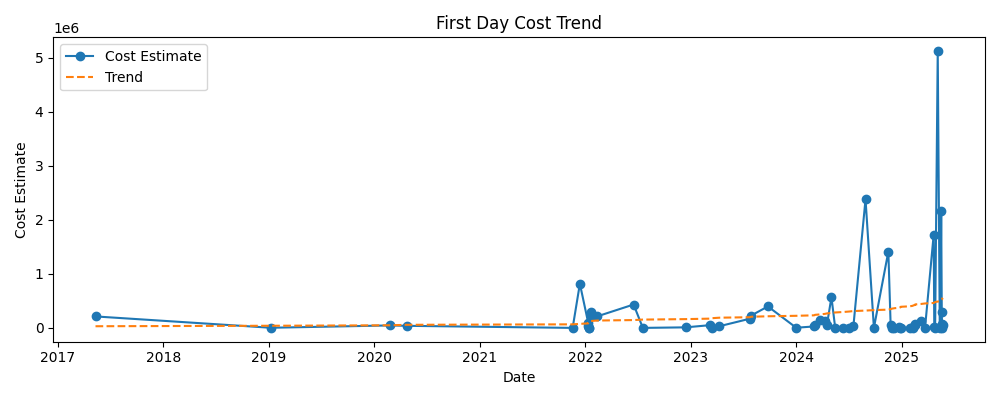
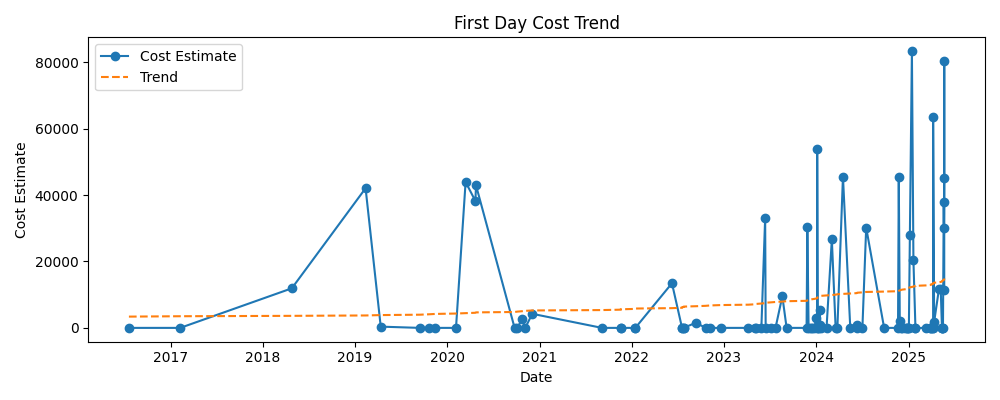
Ignore zero-loc examples. Clean up the data (manually) a lot.

diff --git a/repo_barchart.py b/repo_barchart.py
@@ -11,6 +11,8 @@ def make_chart(csv_file: str, output: str = "repo_barchart.png") -> None:
     if df.empty:
         raise ValueError("No data found")
 
+    df = df[df.cost_estimate > 0]
+
     # Scale cost to thousands of dollars for readability
     df["cost_k"] = df["cost_estimate"] / 1000.0
 
